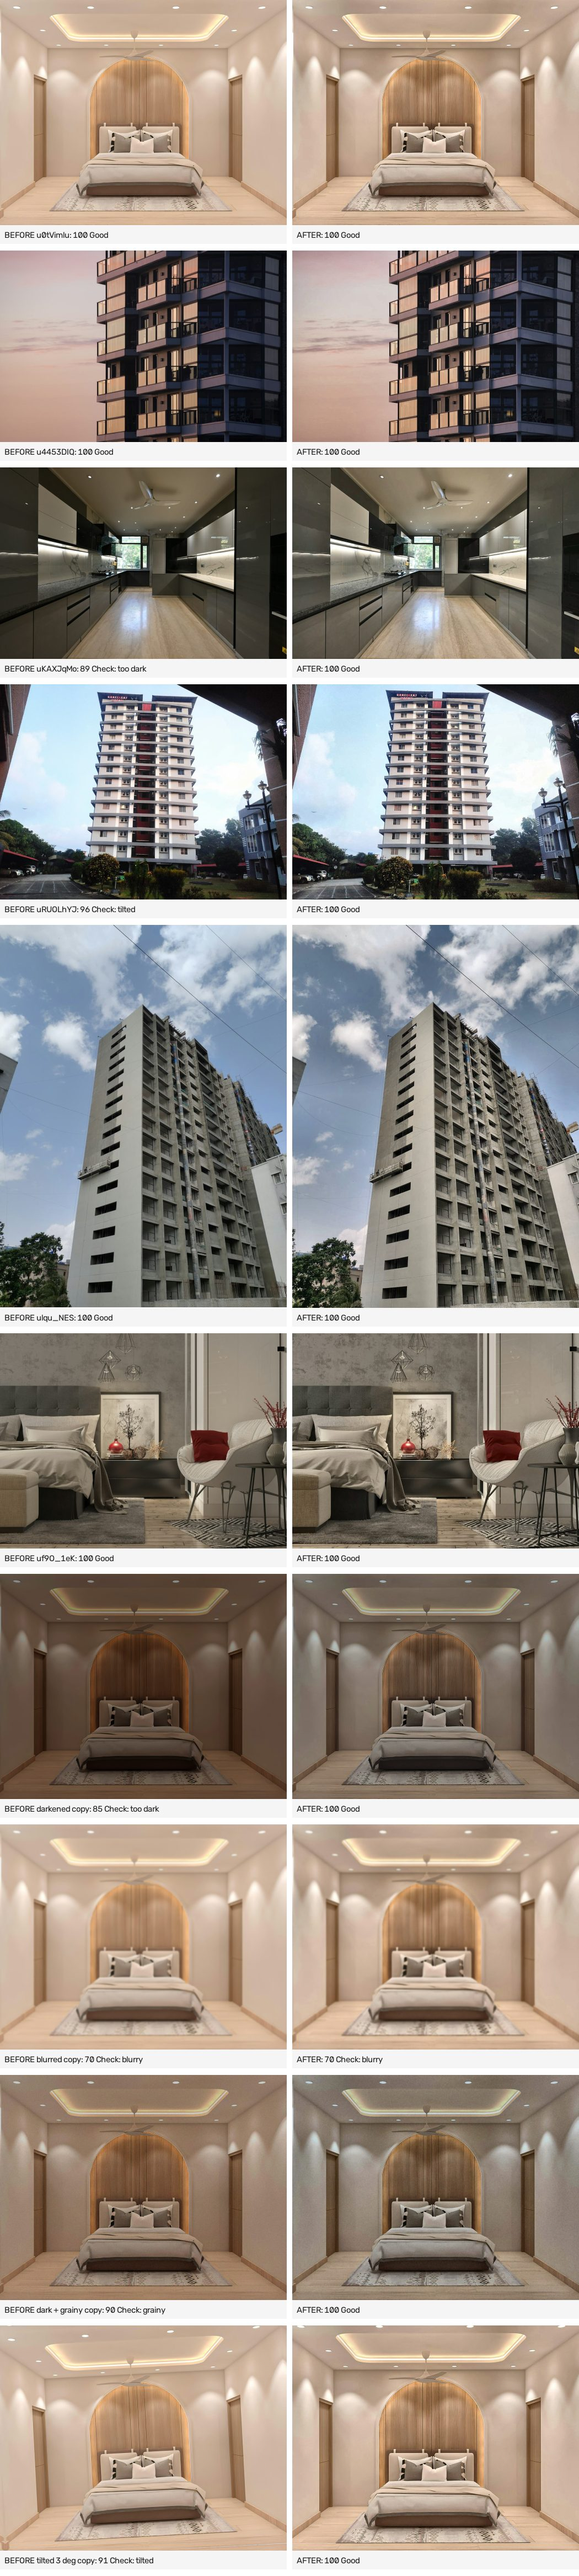
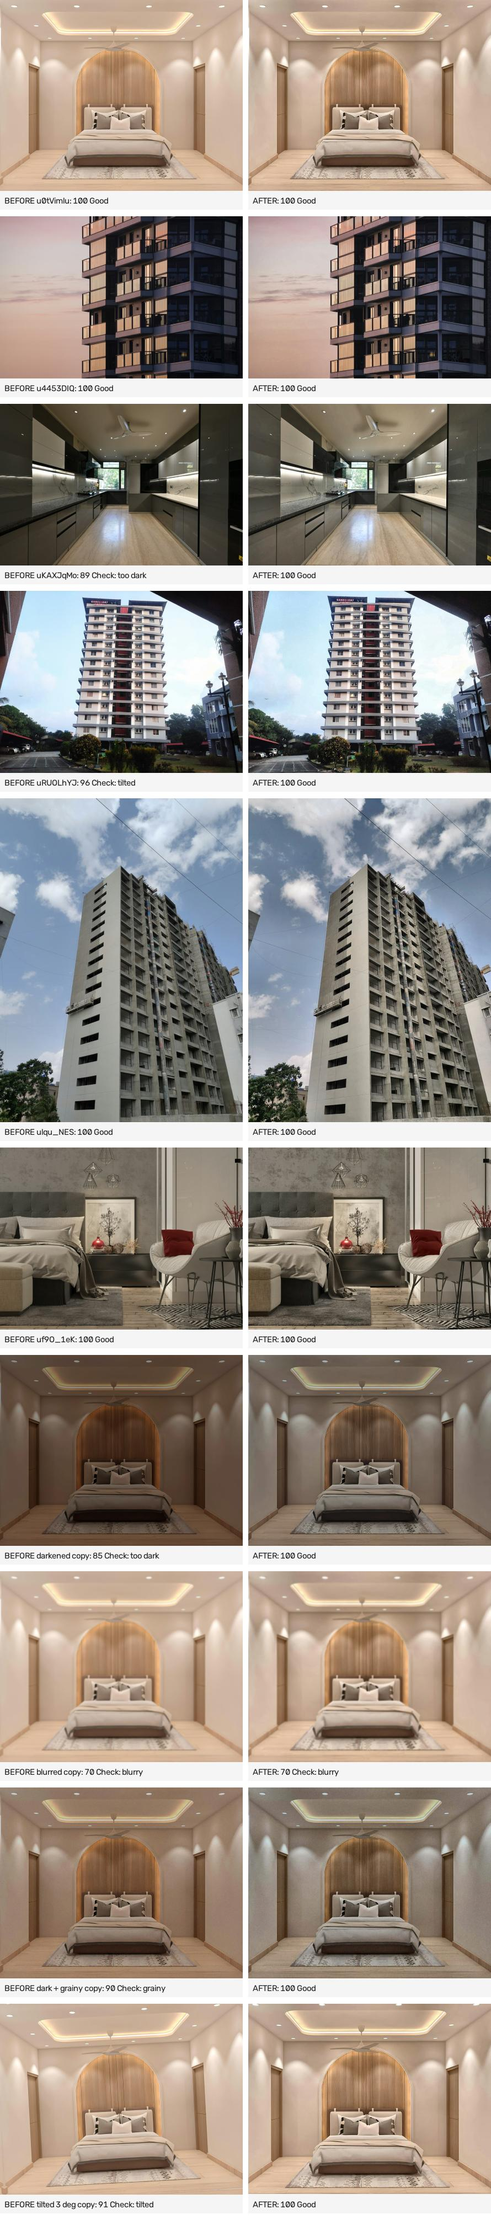
Q1 handoff: router and env wiring, deps, vision model and limits; smaller contact sheet

diff --git a/backend/app/modules/photoquality/contact_sheet.py b/backend/app/modules/photoquality/contact_sheet.py
@@ -19,7 +19,7 @@ from .enhance import enhance
 
 PHOTOS = Path(__file__).resolve().parents[1] / "showcase" / "assets" / "photos"
 PICK = ("u0tVimluL_ls.jpg", "u4453DIQWtsQ.jpg", "uKAXJqMoe8OI.jpg", "uRUOLhYJF75w.jpg", "ulqu_NESnqfc.jpg", "uf9O_1eKGlQM.jpg")
-CELL_W = 520
+CELL_W = 440
 
 
 def degraded(img: np.ndarray) -> List[Tuple[str, np.ndarray]]:
@@ -71,7 +71,7 @@ def build(out_path: Path) -> Path:
     sheet = np.vstack([np.vstack([r, np.full((12, r.shape[1], 3), 255, np.uint8)]) for r in rows])
     sheet = np.hstack([sheet, np.full((sheet.shape[0], w - sheet.shape[1], 3), 255, np.uint8)]) if sheet.shape[1] < w else sheet
     out_path.parent.mkdir(parents=True, exist_ok=True)
-    cv2.imwrite(str(out_path), sheet, [cv2.IMWRITE_JPEG_QUALITY, 82])
+    cv2.imwrite(str(out_path), sheet, [cv2.IMWRITE_JPEG_QUALITY, 74])
     return out_path
 
 

diff --git a/docs/handoff/Q1-photo-quality.md b/docs/handoff/Q1-photo-quality.md
@@ -1,0 +1,105 @@
+# Q1 handoff: photo quality and visual review
+
+Rebased onto `c094ca8`. The rebase applied without conflicts.
+
+## What it does
+
+- `backend/app/modules/photoquality/`
+  - `analysis.py`: `analyze(img)` returns `{score 0-100, issues, tips, metrics}`. Issues: `dark`, `bright`, `blurry`, `small`, `tilted`, `noisy`, `mostly_sky_or_floor`. It uses OpenCV and numpy only and measures a 640 px copy, which takes about 0.1 s.
+  - `enhance.py`: `enhance(img)` changes only tone and geometry:
+    - a capped grey-world white balance that keeps warm lamplight
+    - exposure gamma, applied only when the photo is too dark or too bright
+    - CLAHE on luminance, blended at 55%
+    - straightening for tilts of 0.7 to 4 degrees, cropped so no blank corners show
+    - a thresholded unsharp mask
+    - a fast denoise (bilateral filter plus chroma blur), applied only when the photo is grainy
+
+    It never adds, removes or alters objects, sky or views, and it does not boost saturation. A full photo takes about 0.2 to 0.4 s on an idle CPU. `smart_crop(img, aspect)` keeps the window with the most detail.
+  - `store.py`: `process_file(path)` keeps the original file. It writes `<name>-enh.jpg` beside it and caches the result in a `<name>.quality.json` sidecar, so it is idempotent. `use_enhanced` is true when the score improves by at least 5. `display_url()` and `public_media()` choose which copy to show.
+  - `vision_review.py`: `review(paths, context)` returns `{score, verdict good|fix|redo, notes, source ai|rules, ai_available, model}`. It caches results per file hash, context and model, in memory and under `<UPLOAD_DIRECTORY>/quality_reviews/`. When no model answers, it falls back to rules (photo analysis plus the creative critic) and adds the note "AI review unavailable". Failed AI calls are not cached.
+  - `targets.py`: works out which images and text to review for a calendar item, a news item or a listing's marketing cards. It also provides `warm()`, a fire-and-forget pre-review that runs only when an AI provider is configured.
+  - `router.py`: `POST /review {kind: calendar|news|listing, id, refresh?}`.
+  - `contact_sheet.py`: a dev tool that builds the before/after sheet.
+- Hooks into existing code (small):
+  - `api/v1/endpoints/uploads.py`: the upload response now includes `quality`, `enhanced_url` (absolute) and `use_enhanced`. It is best effort, with an 8 s cap, and `PHOTO_QUALITY=off` disables it.
+  - `listings/schemas.py`: `Media` gains the optional fields `quality`, `enhanced_url` and `use_enhanced`. `enhanced_url` must be one of our own `/uploads/images/*-enh.jpg` files. `PublicListing.media` returns only the chosen URL.
+  - `marketing/images.py`: `first_photo_url` uses the chosen copy.
+  - `marketing/service.py` and `newsroom/adapters.card_stage`: call `warm()` after cards render.
+  - `creative/pipeline.py`: `make(..., reviewer="default")` attaches `report["vision"]`. When the AI review (not the rules) says `redo`, the pack is regenerated once with the review notes as feedback. The redo must pass every critic guard and is kept only if its review score is not lower.
+- Frontend:
+  - `lib/app/quality.ts`: badges, an in-browser check that uses the same thresholds, the review client and fixtures.
+  - `components/app/quality/*`: `QualityBadge`, `QualityTip`, `EnhanceToggle` (before/after peek), `ListingPhotos` and `ReviewChip`.
+  - Wired into:
+    - the photo step (`PhotoPicker`)
+    - the listing detail photos (Use enhanced, saved through PATCH media)
+    - the brand logo and banner pickers. The logo is judged only on size and blur; the banner also gets the enhanced toggle.
+    - review chips next to Approve in Studio Content, the Newsroom queue and the concierge Post to Avasetu sheet. The chips never block approval and are hidden if the review fails.
+
+## Integrator wiring (required)
+
+The quality router is **not mounted yet**. Without it, the chips stay hidden: a 404 counts as a failed review. Add this to `backend/app/api/v1/router.py`:
+
+```python
+from app.modules.photoquality.router import router as quality_router
+api_router.include_router(quality_router, prefix="/quality", tags=["quality"])
+```
+
+Nothing else needs mounting. The upload hook, schemas, marketing, newsroom and pipeline changes are already in place.
+
+## Environment
+
+The Groq vision model needs **no new key**. It uses `AI_LLM_API_KEY` or `GROQ_API_KEY`, the same keys as the text LLM, which are read through `ai_listing.llm.groq_api_key()`.
+
+| Variable | Default | Purpose |
+|---|---|---|
+| `AI_VISION_MODEL` | `qwen/qwen3.8-27b` | Groq vision model. A comma-separated list is tried in order. |
+| `AI_VISION_API_KEY` | (falls back to `AI_LLM_API_KEY` / `GROQ_API_KEY`) | Only needed if vision should use a different key. |
+| `AI_VISION_BASE_URL` | `AI_LLM_BASE_URL`, then `https://api.groq.com/openai/v1` | Endpoint for the vision model. |
+| `AI_VISION_FALLBACK_MODEL` | unset (no fallback) | For example, an OpenRouter `:free` vision model. |
+| `AI_VISION_FALLBACK_API_KEY` / `AI_VISION_FALLBACK_BASE_URL` | `AI_LLM_FALLBACK_API_KEY` / `AI_LLM_FALLBACK_BASE_URL` | Key and endpoint for the fallback model. |
+| `AI_VISION_REVIEW` | `on` | `off` turns off AI review everywhere (rules only) and turns off the pipeline hook. |
+| `PHOTO_QUALITY` | `on` | `off` skips analysis and enhancement on upload. |
+| `QUALITY_CACHE_DIR` | `<UPLOAD_DIRECTORY>/quality_reviews` | Where review results are cached. |
+| `UPLOAD_DIRECTORY` | `uploads` | Existing setting, used to locate card files. |
+
+**Vision model:** `qwen/qwen3.8-27b`. I checked console.groq.com/docs/vision and the deprecations page in October 2026. It is Groq's only documented vision model: `qwen/qwen3.6-27b` was deprecated on 2026-09-14 and Llama 4 Scout on 2026-07-17.
+
+Limits:
+- At most 3 images per request; we send up to 3.
+- Each image costs about 2,048 input tokens.
+- The request limit is 20 MB; we send 1024 px JPEGs.
+- Free-tier daily caps apply. When the cap is reached, the review falls back to the rule score.
+
+The model may wrap its answer in `<think>` tags; the parser strips them. The prompt asks only about legibility, cut-off text, crop, clutter, a professional look and whether the text matches the image, and it forbids inventing facts.
+
+## Dependencies
+
+None new. `opencv-python-headless` and `numpy` were already in `backend/requirements`. The frontend needs nothing new.
+
+## Tests
+
+- **Backend:** `backend/tests/modules/photoquality/`, 37 tests with no network. A fake vision client and an `httpx.MockTransport` stand in for the model. They cover:
+  - analysis of good, dark, blurry, tilted (with sign), small, grainy and mostly-floor photos
+  - enhance: fixes the measured issue; a structure similarity above 0.9 shows the content is unchanged; no extra saturation; tilt fixed with a correct crop
+  - smart crop
+  - store: original untouched, idempotent, media choice, schema validation
+  - vision review: fallbacks, cache, provider chain, request shape
+  - the pipeline redo-once, including that a worse redo is not kept
+  - API scoping: the listing agent or the concierge owner; calendar and news are owner-only; anyone else gets 404 or 403
+- **Frontend:** `__tests__/app/photo-quality.test.tsx` (13 tests). Related suites also pass: brand-editor, content, newsroom, concierge, marketing and components (293 tests in total). `npx tsc --noEmit` is clean.
+- **Running Jest in a worktree:** the repo's `testMatch` globs do not match under `.claude/worktrees`, a dot directory. Use a config that swaps `testMatch` for a `testRegex`. In the main checkout, plain `npx jest` works.
+
+## Visual check
+
+`docs/brand/avasetu/photo-quality-check.jpg` has six bundled photos plus darkened, blurred, dark-and-grainy, and tilted copies, each shown before and after.
+- Lifted dark rooms look like evening light, not noon, and warm light stays warm.
+- There are no halos and no oversaturation.
+- Straightening crops cleanly.
+- Blurred photos are flagged but not "fixed": enhancement cannot fix blur, and the tip asks the agent to retake the photo.
+
+## Known limits
+
+- Tilt is measured from near-vertical lines. Converging verticals (a building shot from below) count as perspective, not tilt.
+- `mostly_sky_or_floor` is a band heuristic.
+- A lifted dark photo looks slightly less saturated, because chroma is never boosted on purpose.
+- Calendar items are reviewed on demand. The pipeline's own review uses a different context, so the first chip load runs one AI call.
